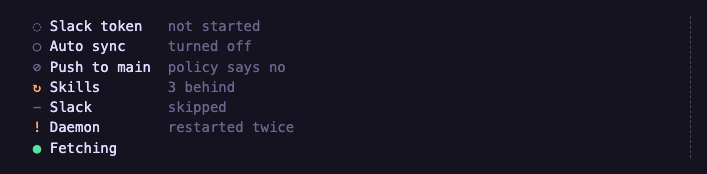
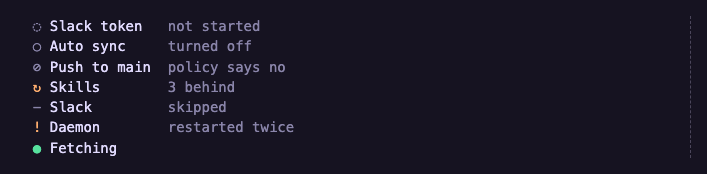
rt-ui: the dark static set takes its own quiet and rule

diff --git a/ui/internal/render/blocks_basic_test.go b/ui/internal/render/blocks_basic_test.go
@@ -497,6 +497,8 @@ const (
 	lightMint, lightPeach, lightLav = "18;171;86", "225;122;13", "161;105;255"
 	darkMint, darkPeach, darkLav    = "98;230;168", "255;183;122", "189;147;249"
 	lightCyan, darkCoral, darkCyan  = "46;134;222", "255;121;121", "90;170;255"
+	lightQuiet, lightRule           = "119;114;154", "115;109;150"
+	darkQuiet, darkRule             = "149;144;179", "110;105;146"
 )
 
 func TestKeysLabelsAndRailsUseStaticTones(t *testing.T) {
@@ -548,12 +550,12 @@ func hasTone(s, rgb string) bool {
 
 func TestADarkBackgroundRendersTheDarkSet(t *testing.T) {
 	dark := render.Render(accentBlocks, render.Options{Width: 80, Background: background.Dark})
-	for _, tone := range []string{darkMint, darkPeach, darkLav, darkCoral, darkCyan, "119;114;154", "115;109;150"} {
+	for _, tone := range []string{darkMint, darkPeach, darkLav, darkCoral, darkCyan, darkQuiet, darkRule} {
 		if !hasTone(dark, tone) {
 			t.Errorf("dark render has no %s: %q", tone, dark)
 		}
 	}
-	for _, tone := range []string{lightMint, lightPeach, lightLav, coral, lightCyan} {
+	for _, tone := range []string{lightMint, lightPeach, lightLav, coral, lightCyan, lightQuiet, lightRule} {
 		if strings.Contains(dark, tone) {
 			t.Errorf("dark render kept the light %s: %q", tone, dark)
 		}

diff --git a/ui/internal/theme/theme_test.go b/ui/internal/theme/theme_test.go
@@ -198,12 +198,22 @@ func TestTheDarkStaticSetIsTheAppsAccentsAndReadsOnBg(t *testing.T) {
 			t.Errorf("dark %s on Bg is %.2f:1, under 4.5:1", name, got)
 		}
 	}
-	for name, pair := range map[string][2]color.Color{
-		"quiet": {StaticDark.Quiet, StaticLight.Quiet}, "rule": {StaticDark.Rule, StaticLight.Rule},
-	} {
-		if Hex(pair[0]) != Hex(pair[1]) {
-			t.Errorf("%s differs between the sets: %s and %s", name, Hex(pair[0]), Hex(pair[1]))
-		}
+}
+
+func TestTheDarkQuietAndRuleReadOnBgAndStayBelowTheText(t *testing.T) {
+	bg := relLuminance(Bg)
+	quiet, rule := relLuminance(StaticDark.Quiet), relLuminance(StaticDark.Rule)
+	if c := contrast(quiet, bg); c < 5.5 || c > 6.5 {
+		t.Errorf("dark quiet on Bg is %.2f:1, want about 6:1", c)
+	}
+	if c := contrast(rule, bg); c < 3 {
+		t.Errorf("dark rule on Bg is %.2f:1, under 3:1", c)
+	}
+	if rule >= quiet {
+		t.Error("the dark rule must sit dimmer than the dark quiet")
+	}
+	if quiet >= relLuminance(Lav) {
+		t.Error("the dark quiet must sit dimmer than the accents beside it")
 	}
 }
 

diff --git a/ui/internal/steps/steps_test.go b/ui/internal/steps/steps_test.go
@@ -353,6 +353,9 @@ func TestADarkSettingPaintsTheDarkSpinner(t *testing.T) {
 	if !strings.Contains(tty, darkMint) || strings.Contains(tty, lightMint) {
 		t.Fatalf("no dark mint spinner in %q", tty)
 	}
+	if !strings.Contains(tty, "38;2;149;144;179m") || strings.Contains(tty, "38;2;119;114;154m") {
+		t.Fatalf("no dark quiet sub-line in %q", tty)
+	}
 }
 
 func TestAutoTakesTheTerminalsAnswer(t *testing.T) {

diff --git a/ui/internal/theme/theme.go b/ui/internal/theme/theme.go
@@ -204,7 +204,7 @@ var (
 	// so it is only for a background known to be dark.
 	StaticDark = StaticTones{
 		Mint: Mint, Peach: Peach, Lav: Lav, Coral: Coral, Cyan: Cyan,
-		Quiet: staticQuiet, Rule: staticRule,
+		Quiet: lipgloss.Color("#9590B3"), Rule: lipgloss.Color("#6E6992"),
 	}
 )
 

diff --git a/docs/superpowers/specs/2026-09-30-rt-output-layer-design.md b/docs/superpowers/specs/2026-09-30-rt-output-layer-design.md
@@ -119,7 +119,7 @@ The glyphs avoid Nerd Font code points and heavy filled shapes, which rendered b
 - **Lavender:** setting keys, branch names and the `tip` label.
 - **Bold:** a command to run. The callout label carries the color; the command does not.
 - **Dim and faint:** hints, sources, captions, rails.
-- **Two accent tones, chosen by the background.** Static output (`rt-ui render` and the steps verb) draws these roles with `theme.StaticLight` or `theme.StaticDark`. Body text keeps the terminal's own foreground either way. The dark set takes the app's own mint, peach, lavender, coral (`#FF7979`) and cyan (`#5AAAFF`); the light set (mint `#12AB56`, peach `#E17A0D`, lavender `#A169FF`, coral `#E0484E`, cyan `#2E86DE`) is also what a background nobody could identify gets, because it clears 3:1 on white and 3.5:1 on `Bg`, where the dark set falls to about 1.6:1 on white. Quiet and rule are one tone in both sets, and dim and faint share the quiet tone. One resolver in `ui/internal/background` decides for render and steps alike: the user setting `rt.ui.background` (`auto`, `dark` or `light`, default `auto`), which rt hands over as `RT_UI_BACKGROUND`, wins outright; `auto` reads `COLORFGBG`, then Ghostty's configured background (only when `TERM_PROGRAM` is unset, `ghostty`, `herdr` or `tmux`, because Ghostty's environment leaks into an editor or a multiplexer started from a Ghostty shell), then asks the terminal (OSC 11, bounded by a DA1 query sent behind it), and takes the light set when none of them answers. So a Ghostty whose config names a theme or a background, and herdr inside such a Ghostty, are settled without asking; a Ghostty with neither (or a `light:X,dark:Y` theme pair) and herdr under another terminal are asked. rt sends `auto` only when stdin, stdout and stderr are all terminals, and the first render reports what it resolved to, which rt passes to every later helper, so one rt command asks at most once. The query never runs over typed input, never overlaps another probe on the same terminal, and restores the mode without discarding input. A terminal slower than the 250 ms cap gets its reply after the mode is restored, where it echoes; setting `rt.ui.background` to `dark` or `light` skips the query. The diff tints turn light only when the background resolves light. The app views (pickers, mission, the board) paint their own background and keep their own palette. Ruled 2026-10-02 (Matt), replacing the one-palette ruling of 2026-10-01; the order (cheap signals before the query) and the dark set's app coral and cyan ruled the same day.
+- **Two accent tones, chosen by the background.** Static output (`rt-ui render` and the steps verb) draws these roles with `theme.StaticLight` or `theme.StaticDark`. Body text keeps the terminal's own foreground either way. The dark set takes the app's own mint, peach, lavender, coral (`#FF7979`) and cyan (`#5AAAFF`); the light set (mint `#12AB56`, peach `#E17A0D`, lavender `#A169FF`, coral `#E0484E`, cyan `#2E86DE`) is also what a background nobody could identify gets, because it clears 3:1 on white and 3.5:1 on `Bg`, where the dark set falls to about 1.6:1 on white. Quiet and rule have a tone per set: on dark, quiet `#9590B3` (about 6:1 on `Bg`) and rule `#6E6992` (about 3.6:1); on light and unknown, quiet `#77729A` and rule `#736D96`. Dim and faint share the quiet tone. One resolver in `ui/internal/background` decides for render and steps alike: the user setting `rt.ui.background` (`auto`, `dark` or `light`, default `auto`), which rt hands over as `RT_UI_BACKGROUND`, wins outright; `auto` reads `COLORFGBG`, then Ghostty's configured background (only when `TERM_PROGRAM` is unset, `ghostty`, `herdr` or `tmux`, because Ghostty's environment leaks into an editor or a multiplexer started from a Ghostty shell), then asks the terminal (OSC 11, bounded by a DA1 query sent behind it), and takes the light set when none of them answers. So a Ghostty whose config names a theme or a background, and herdr inside such a Ghostty, are settled without asking; a Ghostty with neither (or a `light:X,dark:Y` theme pair) and herdr under another terminal are asked. rt sends `auto` only when stdin, stdout and stderr are all terminals, and the first render reports what it resolved to, which rt passes to every later helper, so one rt command asks at most once. The query never runs over typed input, never overlaps another probe on the same terminal, and restores the mode without discarding input. A terminal slower than the 250 ms cap gets its reply after the mode is restored, where it echoes; setting `rt.ui.background` to `dark` or `light` skips the query. The diff tints turn light only when the background resolves light. The app views (pickers, mission, the board) paint their own background and keep their own palette. Ruled 2026-10-02 (Matt), replacing the one-palette ruling of 2026-10-01; the order (cheap signals before the query) and the dark set's app coral and cyan and its own quiet and rule ruled the same day.
 
 ## Rules
 

diff --git a/docs/design/output-layer/README.md b/docs/design/output-layer/README.md
@@ -96,7 +96,7 @@ What reads wrong: there is no blank line between one message and the next author
 
 ## Phase 5g: renderer
 
-Two accent tones, chosen by the terminal's background: static output takes `theme.StaticDark` (the app's own mint, peach, lavender, coral `#FF7979` and cyan `#5AAAFF`) on a background that resolves dark and `theme.StaticLight` on one that resolves light or cannot be determined. Body text keeps the terminal's foreground in both. On `auto` the background comes from `COLORFGBG`, then Ghostty's configured background, then the terminal's answer to an OSC 11 query. The dark pages here render with `RT_UI_BACKGROUND=dark` and the light pages with `RT_UI_BACKGROUND=light`, so the setting is what decides. `fixture-*.png`, `statuses-*.png` and every `5g-*.png` were rendered the same way; every other page above this section predates the two tones.
+Two accent tones, chosen by the terminal's background: static output takes `theme.StaticDark` (the app's own mint, peach, lavender, coral `#FF7979` and cyan `#5AAAFF`, with quiet `#9590B3` and rule `#6E6992`) on a background that resolves dark and `theme.StaticLight` on one that resolves light or cannot be determined. Body text keeps the terminal's foreground in both. On `auto` the background comes from `COLORFGBG`, then Ghostty's configured background, then the terminal's answer to an OSC 11 query. The dark pages here render with `RT_UI_BACKGROUND=dark` and the light pages with `RT_UI_BACKGROUND=light`, so the setting is what decides. `fixture-*.png`, `statuses-*.png` and every `5g-*.png` were rendered the same way; every other page above this section predates the two tones.
 
 | File | What it shows |
 |---|---|
@@ -110,4 +110,4 @@ Two accent tones, chosen by the terminal's background: static output takes `them
 | `5g-breadcrumb-dark.png`, `5g-breadcrumb-light.png` | the breadcrumb header with its `blank` row, then two sections, the second after `sync all`'s branch gap |
 | `5g-copy-dark.png`, `5g-copy-light.png` | `rt team invite`'s link and message and `rt git pull`'s dry-run command as `copy` blocks: caption at the body column, text at column 0 with no rail, so a drag-select pastes clean, and one blank row after each |
 
-What reads wrong in the palette pages: on dark, the app's coral makes the `✗` glyph and the `PRODUCTION` banner a bright salmon red that holds its own beside mint, peach and lavender, though it reads softer than an alarm red; the link is a clear blue. The dark peach `#FFB77A` still reads apricot, so `next`, `fix` and the `◆` glyph carry less urgency than the light set's orange. On light, mint words (`listening`, `connected`, `standing access`) sit at 3:1 and read lighter than the body text, though still clearly. The unknown page (the light set on dark) is sober but reads fine. In `5g-callouts-*.png` the backup ref moved out to the bar breaks the note's text column mid-note, so for a moment it reads like the start of another callout.
+What reads wrong in the palette pages: on dark, the app's coral makes the `✗` glyph and the `PRODUCTION` banner a bright salmon red that holds its own beside mint, peach and lavender, though it reads softer than an alarm red; the link is a clear blue. Hints, captions and the `why` label in the dark quiet tone read clearly and stay a step below body text; the rails and tree branches in the dark rule tone sit dimmer still. The dark peach `#FFB77A` still reads apricot, so `next`, `fix` and the `◆` glyph carry less urgency than the light set's orange. On light, mint words (`listening`, `connected`, `standing access`) sit at 3:1 and read lighter than the body text, though still clearly. The unknown page (the light set on dark) is sober but reads fine. In `5g-callouts-*.png` the backup ref moved out to the bar breaks the note's text column mid-note, so for a moment it reads like the start of another callout.
